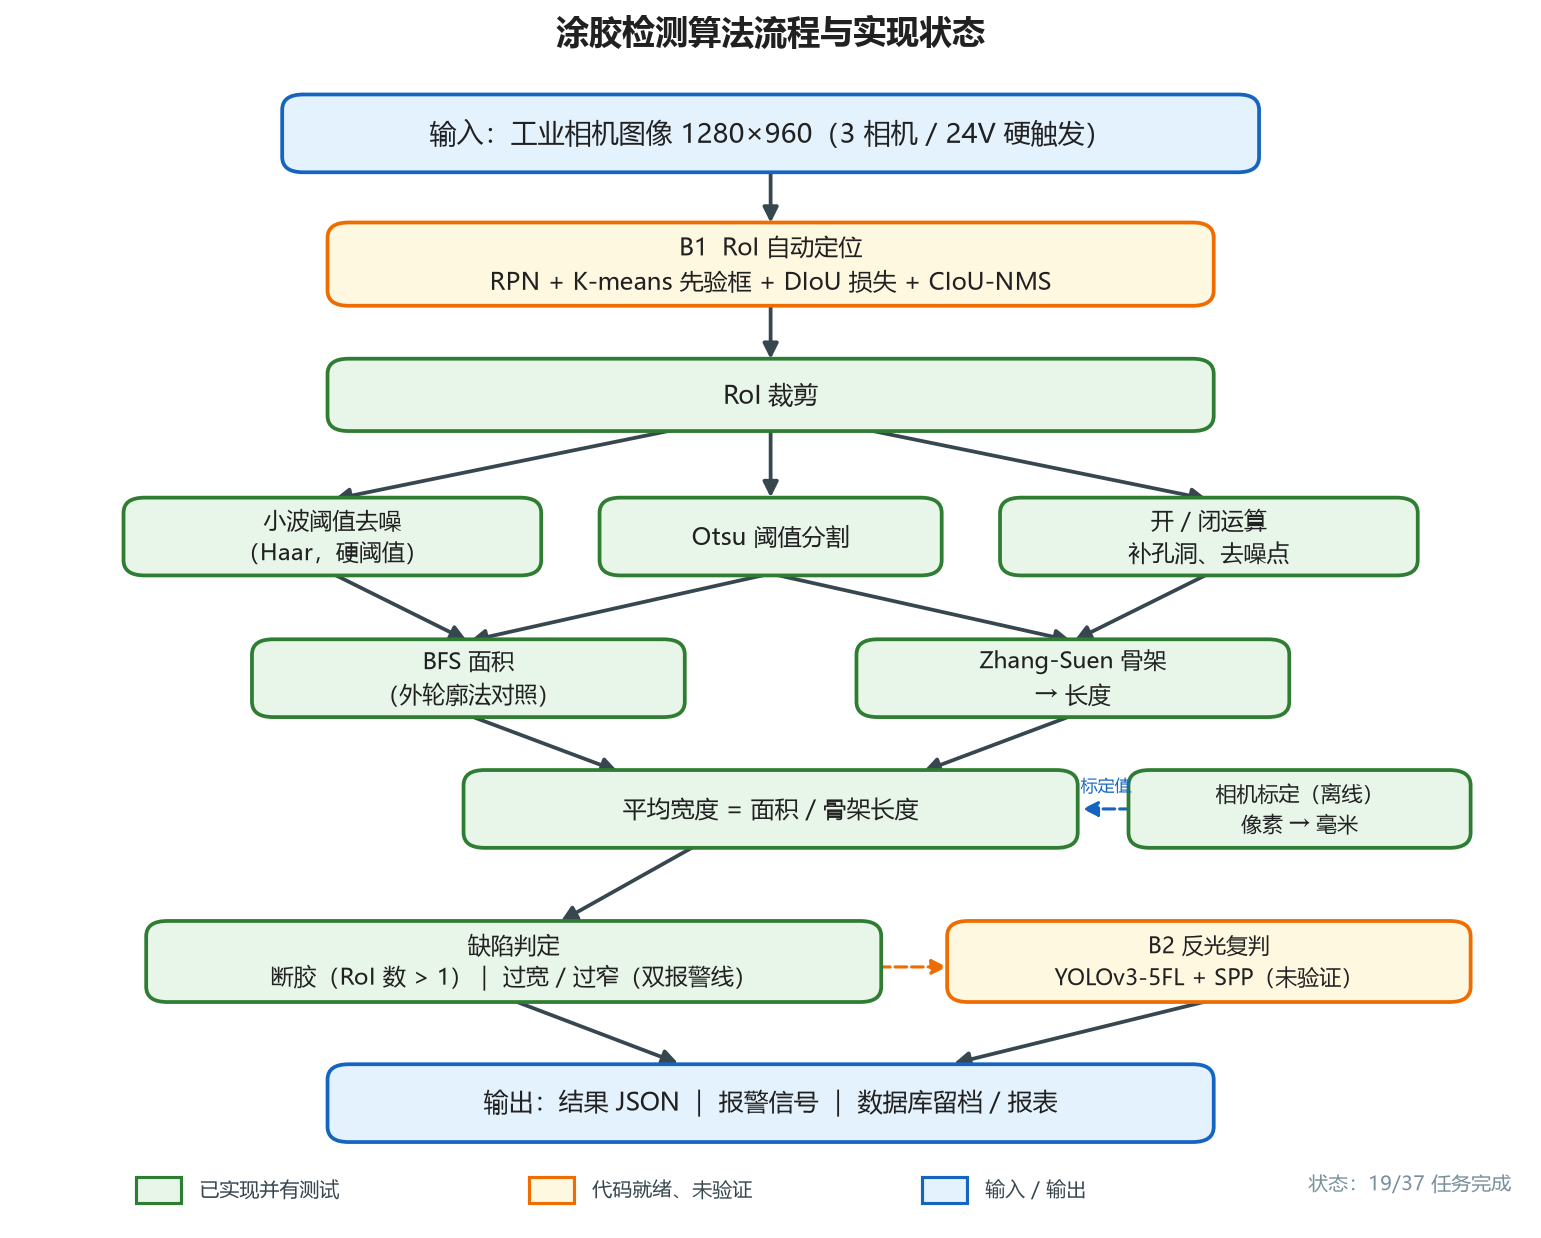
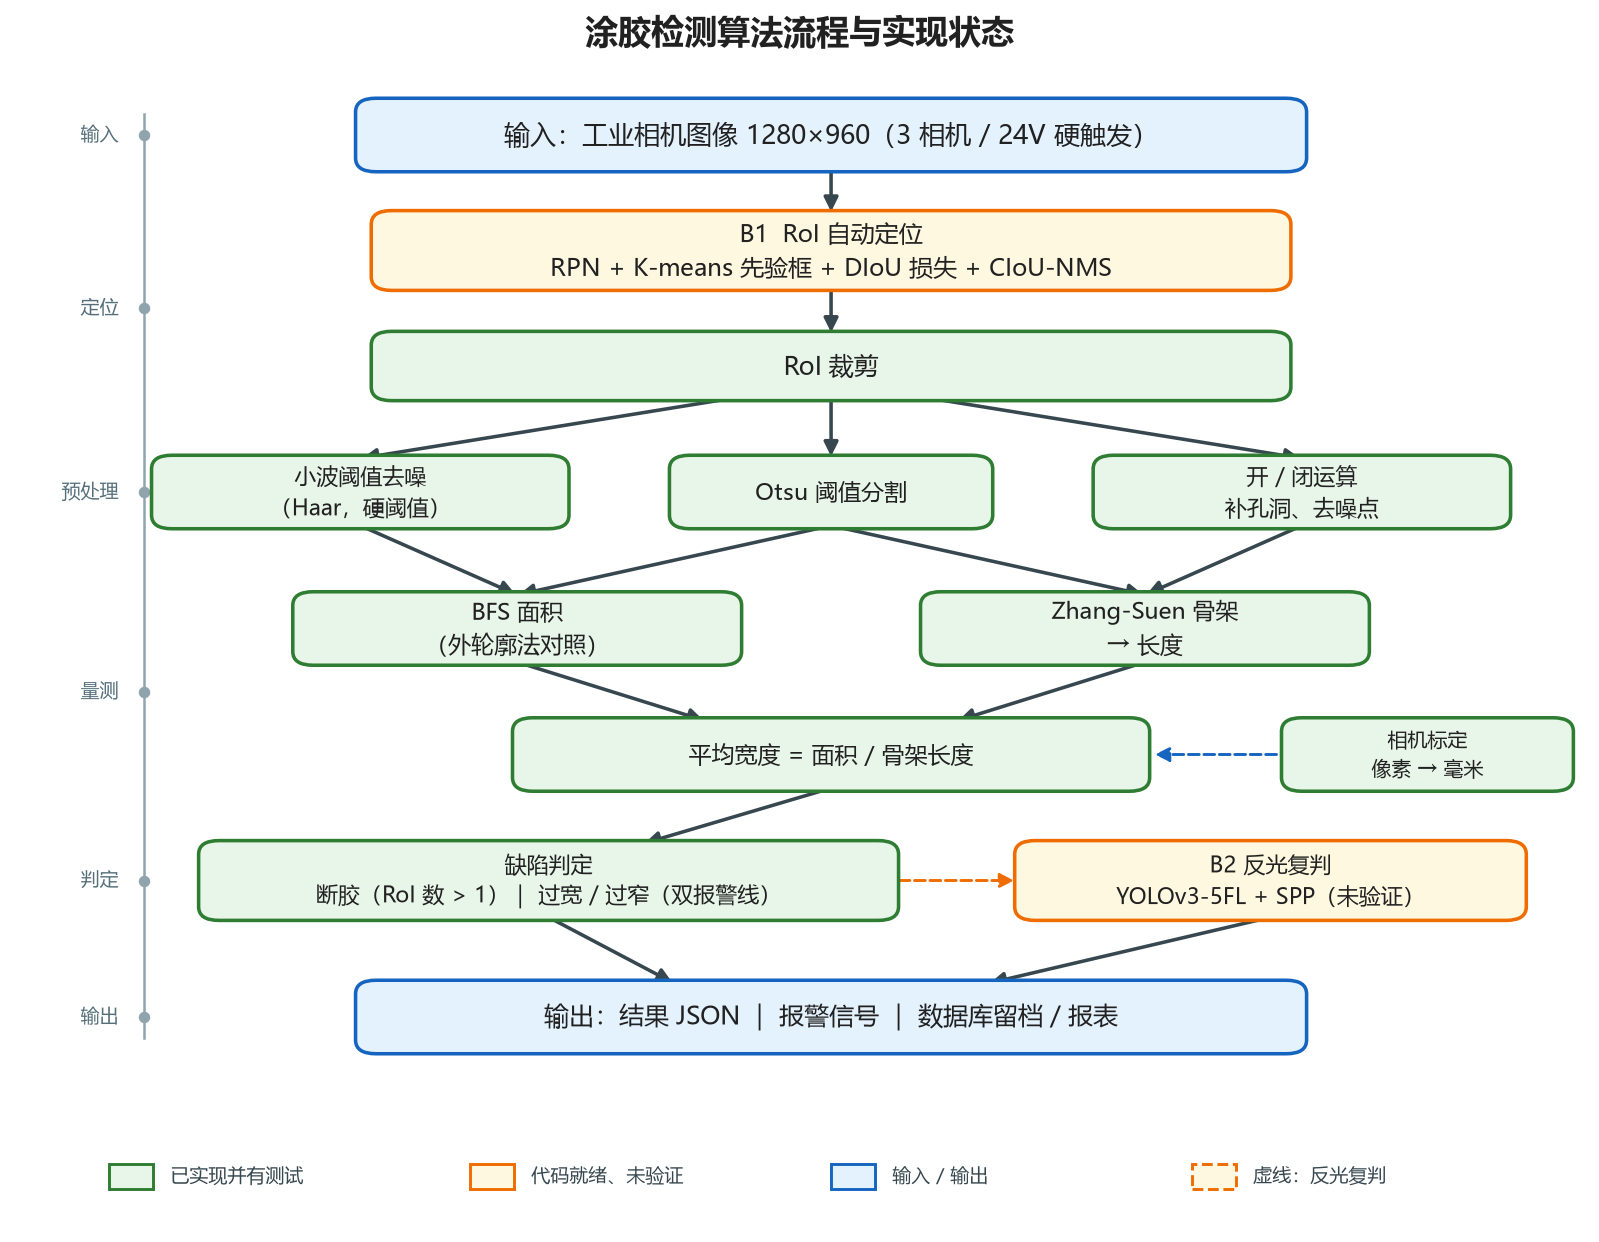
Refine progress page wording and redesign pipeline diagram
progress.md: remove colloquial summary phrasing, use declarative status statements and consistent 已完成/待验证/未开始 labels. make_flow_diagram.py: add stage rail, fix calibration arrow and legend overlap, add dashed-branch legend. AGENTS.md: replace colloquial link caption.

diff --git a/scripts/make_flow_diagram.py b/scripts/make_flow_diagram.py
@@ -1,9 +1,9 @@
 """生成算法流程框图（docs/algo/figures/algorithm-pipeline.png）。
 
-只做绘图，不含算法逻辑；颜色表示实现状态：
-    绿色 = 已实现并有测试
+只做绘图，不含算法逻辑。颜色编码实现状态：
+    绿色 = 已实现并有单元测试
     橙色 = 代码就绪、尚未验证
-    灰色 = 未实现
+    蓝色 = 输入 / 输出
 用法：
     py -3 scripts/make_flow_diagram.py
 """
@@ -22,101 +22,115 @@ plt.rcParams["axes.unicode_minus"] = False
 
 OUT = Path("docs/algo/figures/algorithm-pipeline.png")
 
-COLORS = {
-    "done": ("#e8f5e9", "#2e7d32"),      # 绿：已实现
-    "wip": ("#fff8e1", "#ef6c00"),       # 橙：就绪未验证
-    "todo": ("#f5f5f5", "#616161"),      # 灰：未实现
-    "io": ("#e3f2fd", "#1565c0"),        # 蓝：输入输出
-}
+DONE = ("#e8f5e9", "#2e7d32")   # 已实现
+WIP = ("#fff8e1", "#ef6c00")    # 就绪未验证
+IO = ("#e3f2fd", "#1565c0")     # 输入输出
+RAIL = "#90a4ae"
 
 
-def box(ax, x, y, w, h, text, kind="done", fontsize=12):
-    face, edge = COLORS[kind]
+def box(ax, x, y, w, h, text, kind=DONE, fontsize=12):
+    face, edge = kind
     ax.add_patch(FancyBboxPatch(
         (x - w / 2, y - h / 2), w, h,
-        boxstyle="round,pad=0.32,rounding_size=1.4",
-        linewidth=1.8, edgecolor=edge, facecolor=face, zorder=2,
+        boxstyle="round,pad=0.30,rounding_size=1.3",
+        linewidth=1.7, edgecolor=edge, facecolor=face, zorder=2,
     ))
     ax.text(x, y, text, ha="center", va="center", fontsize=fontsize,
             color="#212121", zorder=3, linespacing=1.35)
 
 
-def arrow(ax, x1, y1, x2, y2, ls="-", color="#37474f", lw=1.8):
+def arrow(ax, x1, y1, x2, y2, ls="-", color="#37474f", lw=1.7):
     ax.add_patch(FancyArrowPatch(
         (x1, y1), (x2, y2), arrowstyle="-|>", linestyle=ls,
-        mutation_scale=15, linewidth=lw, color=color, zorder=1,
+        mutation_scale=14, linewidth=lw, color=color, zorder=1,
         shrinkA=1, shrinkB=1,
     ))
 
 
+def stage_rail(ax, stages):
+    """左侧阶段标注轨：竖线 + 圆点 + 文字。"""
+    ys = [y for _, y in stages]
+    ax.plot([8.2, 8.2], [min(ys) - 2, max(ys) + 2], color=RAIL, lw=1.2, zorder=0)
+    for label, y in stages:
+        ax.plot([8.2], [y], marker="o", markersize=4.5, color=RAIL, zorder=1)
+        ax.text(6.6, y, label, ha="right", va="center", fontsize=9, color="#546e7a")
+
+
 def main() -> int:
-    fig, ax = plt.subplots(figsize=(13, 10), dpi=150)
+    fig, ax = plt.subplots(figsize=(13.5, 10), dpi=150)
     ax.set_xlim(0, 100)
-    ax.set_ylim(-6, 100)
+    ax.set_ylim(-9, 101)
     ax.axis("off")
 
+    # 阶段标注
+    stage_rail(ax, [
+        ("输入", 95),
+        ("定位", 78.5),
+        ("预处理", 61),
+        ("量测", 42),
+        ("判定", 24),
+        ("输出", 11),
+    ])
+
     # ① 输入
-    box(ax, 50, 94, 64, 6.5, "输入：工业相机图像 1280×960（3 相机 / 24V 硬触发）", "io", 13)
+    box(ax, 52, 95, 60, 6.4, "输入：工业相机图像 1280×960（3 相机 / 24V 硬触发）", IO, 12.5)
 
     # ② 定位
-    box(ax, 50, 82, 58, 7, "B1  RoI 自动定位\nRPN + K-means 先验框 + DIoU 损失 + CIoU-NMS", "wip", 11.5)
+    box(ax, 52, 84, 58, 7.0, "B1  RoI 自动定位\nRPN + K-means 先验框 + DIoU 损失 + CIoU-NMS", WIP, 11.3)
+    box(ax, 52, 73, 58, 6.0, "RoI 裁剪", DONE, 12)
 
-    # ③ 裁剪
-    box(ax, 50, 70, 58, 6, "RoI 裁剪", "done", 12)
+    # ③ 预处理
+    box(ax, 22, 61, 26, 6.4, "小波阈值去噪\n（Haar，硬阈值）", DONE, 10.6)
+    box(ax, 52, 61, 20, 6.4, "Otsu 阈值分割", DONE, 11.2)
+    box(ax, 82, 61, 26, 6.4, "开 / 闭运算\n补孔洞、去噪点", DONE, 10.6)
 
-    # ④ 预处理
-    box(ax, 21, 57, 27, 6.5, "小波阈值去噪\n（Haar，硬阈值）", "done", 10.8)
-    box(ax, 50, 57, 22, 6.5, "Otsu 阈值分割", "done", 11.5)
-    box(ax, 79, 57, 27, 6.5, "开 / 闭运算\n补孔洞、去噪点", "done", 10.8)
+    # ④ 量测
+    box(ax, 32, 48, 28, 6.4, "BFS 面积\n（外轮廓法对照）", DONE, 10.8)
+    box(ax, 72, 48, 28, 6.4, "Zhang-Suen 骨架\n→ 长度", DONE, 10.8)
+    box(ax, 52, 36, 40, 6.4, "平均宽度 = 面积 / 骨架长度", DONE, 11.2)
 
-    # ⑤ 量测
-    box(ax, 30, 44, 28, 6.5, "BFS 面积\n（外轮廓法对照）", "done", 11)
-    box(ax, 70, 44, 28, 6.5, "Zhang-Suen 骨架\n→ 长度", "done", 11)
-    box(ax, 50, 32, 40, 6.5, "平均宽度 = 面积 / 骨架长度", "done", 11.5)
+    # 标定（离线旁路）
+    box(ax, 90, 36, 18, 6.4, "相机标定\n像素 → 毫米", DONE, 9.6)
+    arrow(ax, 81.5, 36, 72.5, 36, ls="--", color="#1565c0", lw=1.4)
 
-    # ⑥ 标定（旁路输入，不是流程节点）
-    box(ax, 85, 32, 22, 6.5, "相机标定（离线）\n像素 → 毫米", "done", 10.2)
-    arrow(ax, 74, 32, 70.5, 32, ls="--", color="#1565c0", lw=1.5)
-    ax.text(72.2, 33.6, "标定值", ha="center", fontsize=8, color="#1565c0")
+    # ⑤ 判定
+    box(ax, 34, 24, 44, 7.0, "缺陷判定\n断胶（RoI 数 > 1）｜ 过宽 / 过窄（双报警线）", DONE, 10.6)
+    box(ax, 80, 24, 32, 7.0, "B2 反光复判\nYOLOv3-5FL + SPP（未验证）", WIP, 10.4)
 
-    # ⑦ 判定
-    box(ax, 33, 18, 48, 6.8, "缺陷判定\n断胶（RoI 数 > 1）｜ 过宽 / 过窄（双报警线）", "done", 10.8)
-    box(ax, 79, 18, 34, 6.8, "B2 反光复判\nYOLOv3-5FL + SPP（未验证）", "wip", 10.5)
-
-    # ⑧ 输出
-    box(ax, 50, 5, 58, 6.5, "输出：结果 JSON ｜ 报警信号 ｜ 数据库留档 / 报表", "io", 12)
+    # ⑥ 输出
+    box(ax, 52, 11, 60, 6.4, "输出：结果 JSON ｜ 报警信号 ｜ 数据库留档 / 报表", IO, 12)
 
     # ---------------- 箭头 ----------------
-    arrow(ax, 50, 90.6, 50, 85.6)       # 输入 → B1
-    arrow(ax, 50, 78.4, 50, 73.1)       # B1 → 裁剪
-    arrow(ax, 44, 66.9, 21, 60.4)       # 裁剪 → 去噪
-    arrow(ax, 50, 66.9, 50, 60.4)       # 裁剪 → Otsu
-    arrow(ax, 56, 66.9, 79, 60.4)       # 裁剪 → 形态学
-    arrow(ax, 21, 53.6, 30, 47.4)       # 去噪 → 面积
-    arrow(ax, 50, 53.6, 30, 47.4)       # Otsu → 面积
-    arrow(ax, 50, 53.6, 70, 47.4)       # Otsu → 骨架
-    arrow(ax, 79, 53.6, 70, 47.4)       # 形态学 → 骨架
-    arrow(ax, 30, 40.6, 40, 35.4)       # 面积 → 宽度
-    arrow(ax, 70, 40.6, 60, 35.4)       # 骨架 → 宽度
-    arrow(ax, 45, 28.6, 36, 21.6)       # 宽度 → 判定
-    arrow(ax, 57, 17.5, 61.8, 17.5, ls="--", color="#ef6c00", lw=1.5)  # 判定 → 反光复判
-    arrow(ax, 79, 14.4, 62, 8.6)        # 反光复判 → 输出
-    arrow(ax, 33, 14.4, 44, 8.6)        # 判定 → 输出
+    arrow(ax, 52, 91.8, 52, 87.5)        # 输入 → B1
+    arrow(ax, 52, 80.5, 52, 76.0)        # B1 → 裁剪
+    arrow(ax, 46, 70.0, 22, 64.2)        # 裁剪 → 去噪
+    arrow(ax, 52, 70.0, 52, 64.2)        # 裁剪 → Otsu
+    arrow(ax, 58, 70.0, 82, 64.2)        # 裁剪 → 形态学
+    arrow(ax, 22, 57.8, 32, 51.2)        # 去噪 → 面积
+    arrow(ax, 52, 57.8, 32, 51.2)        # Otsu → 面积
+    arrow(ax, 52, 57.8, 72, 51.2)        # Otsu → 骨架
+    arrow(ax, 82, 57.8, 72, 51.2)        # 形态学 → 骨架
+    arrow(ax, 32, 44.8, 44, 39.2)        # 面积 → 宽度
+    arrow(ax, 72, 44.8, 60, 39.2)        # 骨架 → 宽度
+    arrow(ax, 52, 32.8, 40, 27.5)        # 宽度 → 判定
+    arrow(ax, 56.2, 24, 63.8, 24, ls="--", color="#ef6c00", lw=1.4)  # 判定 → 反光复判
+    arrow(ax, 34, 20.5, 42, 14.2)        # 判定 → 输出
+    arrow(ax, 80, 20.5, 62, 14.2)        # 反光复判 → 输出
 
     # 图例
-    handles = [
-        ("已实现并有测试", COLORS["done"]),
-        ("代码就绪、未验证", COLORS["wip"]),
-        ("输入 / 输出", COLORS["io"]),
+    items = [
+        ("已实现并有测试", DONE, "-"),
+        ("代码就绪、未验证", WIP, "-"),
+        ("输入 / 输出", IO, "-"),
+        ("虚线：反光复判", WIP, "--"),
     ]
-    for i, (label, (face, edge)) in enumerate(handles):
-        x = 8 + i * 26
-        ax.add_patch(plt.Rectangle((x, -4.2), 3, 2.4, facecolor=face, edgecolor=edge, linewidth=1.5))
-        ax.text(x + 4.2, -3.0, label, fontsize=9.5, va="center", color="#37474f")
+    for i, (label, (face, edge), ls) in enumerate(items):
+        x = 6 + i * 23
+        ax.add_patch(plt.Rectangle((x, -5.4), 2.8, 2.4, facecolor=face,
+                                   edgecolor=edge, linewidth=1.4, linestyle=ls))
+        ax.text(x + 3.9, -4.2, label, fontsize=9, va="center", color="#37474f")
 
-    ax.text(99, -3.0, "状态：19/37 任务完成", ha="right", fontsize=9.5, color="#78909c")
-
-    ax.set_title("涂胶检测算法流程与实现状态", fontsize=16, weight="bold", pad=12, color="#212121")
+    ax.set_title("涂胶检测算法流程与实现状态", fontsize=16, weight="bold", pad=14, color="#212121")
 
     OUT.parent.mkdir(parents=True, exist_ok=True)
     fig.savefig(OUT, bbox_inches="tight", facecolor="white")

diff --git a/docs/algo/progress.md b/docs/algo/progress.md
@@ -1,8 +1,10 @@
 # 算法复现进度
 
 > 更新时间：2026-11-15
-> 当前分支：`feat/algorithm-reproduction`（领先 main 7 个提交，未推送）
-> 一句话：**能出毫米数的那条链路已经跑通并有测试；两路深度学习代码写完但没跑过；所有"论文指标"还等着真实数据。**
+> 当前分支：`feat/algorithm-reproduction`（领先 main 8 个提交，未推送）
+> 任务完成度：**19 / 37**
+
+当前状态：传统量测链路（P1）已实现并通过 60 项单元测试；两路深度学习模型（B1 RPN、B2 YOLOv3-5FL+SPP）的代码位于 `wip/b1-b2` 分支，尚未验证；论文指标的复现依赖现场图像与人工测量真值，目前尚未开始。
 
 ---
 
@@ -10,26 +12,22 @@
 
 ```
 P0 规范与口径    ██████████ 100%   指标定义、数据规范、接口契约、假设登记
-P1 量测链路      █████████░  90%   全部实现 + 60 项测试；缺真实数据验证
-P2 判定与集成    ████████░░  80%   判定/流水线/叠加图完成；缺延迟统计
-P3 RoI 定位 B1   ███░░░░░░░  30%   代码在 wip 分支，未运行
+P1 量测链路      █████████░  90%   实现与测试完成；真实数据验证未做
+P2 判定与集成    ████████░░  80%   判定、流水线、叠加图完成；延迟统计未做
+P3 RoI 定位 B1   ███░░░░░░░  30%   代码位于 wip 分支，尚未运行
 P4 反光检测 B2   ███░░░░░░░  30%   同上
 P5 对标与报告    ░░░░░░░░░░   0%   依赖 P3/P4 与真实数据
 ```
 
-任务清单：**19 / 37 项完成**（详见 [tasks.md](tasks.md)）。
-
 ---
 
-## 二、算法流程与状态
+## 二、算法流程与实现状态
 
 ![算法流程与实现状态](figures/algorithm-pipeline.png)
 
-- 🟩 绿色：已实现并有单元测试
-- 🟧 橙色：代码就绪、尚未验证（在 `wip/b1-b2` 分支）
-- 🟦 蓝色：输入 / 输出
+图中颜色表示实现状态：绿色为已实现并有单元测试；橙色为代码就绪但尚未验证（`wip/b1-b2` 分支）；蓝色为输入与输出。
 
-对应的 Mermaid 版本（GitHub 上可直接渲染）：
+Mermaid 版本（GitHub 可直接渲染）：
 
 ```mermaid
 flowchart TD
@@ -64,20 +62,20 @@ flowchart TD
 
 | 模块 | 论文位置 | 状态 | 说明 |
 | --- | --- | --- | --- |
-| 小波去噪 / 中值滤波 | 4.1 | ✅ | Haar 2 层 + 硬阈值，含中值对比 |
-| 阈值分割（Otsu / 双峰 / 全局） | 4.2.1 | ✅ | 三种方法都可切换 |
-| 开闭运算 | 4.2.2 | ✅ | 四种顺序组合 |
-| 相机标定 | 4.3 | ✅ | 棋盘格、内参、重投影误差、像素→毫米 |
-| 面积（BFS / 外轮廓） | 4.4.1 | ✅ | 两种方法可对照 |
-| 骨架与长度 | 4.4.2 | ✅ | Zhang-Suen；长度用图直径法（比边计数稳） |
-| 宽度换算 | 4.4.3 | ✅ | 面积÷长度，再乘标定系数 |
-| 缺陷判定 | 5.3.3 | ✅ | 断胶、双报警线、反光复判 |
-| 单帧流水线 | 5.2.3 | ✅ | 含降级记录与分段计时 |
-| 评测指标 | — | ✅ | IoU / 召回 / 误差 / p50-p95 |
-| **B1 RoI 定位（RPN）** | 3.1 | 🟧 | `wip/b1-b2` 分支，torch 未装，测试未跑 |
-| **B2 反光检测（YOLO-5FL+SPP）** | 3.3 | 🟧 | 同上 |
-| 消融实验（表 3-1/3-2/3-4） | 3.1/3.3 | ⬜ | 脚本骨架在，需模型跑通 + 数据 |
-| 真实数据指标（0.23mm 那条线） | 4.4/表 5-4 | ⬜ | 卡在采集与卡尺真值 |
+| 小波去噪 / 中值滤波 | 4.1 | 已完成 | Haar 2 层 + 硬阈值，含中值滤波对照 |
+| 阈值分割（Otsu / 双峰 / 全局） | 4.2.1 | 已完成 | 三种方法可切换 |
+| 开闭运算 | 4.2.2 | 已完成 | 四种顺序组合 |
+| 相机标定 | 4.3 | 已完成 | 棋盘格、内参、重投影误差、像素到毫米换算 |
+| 面积（BFS / 外轮廓） | 4.4.1 | 已完成 | 两种方法可对照 |
+| 骨架与长度 | 4.4.2 | 已完成 | Zhang-Suen 细化；长度采用图直径法 |
+| 宽度换算 | 4.4.3 | 已完成 | 面积除以长度，再乘标定系数 |
+| 缺陷判定 | 5.3.3 | 已完成 | 断胶、双报警线、反光复判 |
+| 单帧流水线 | 5.2.3 | 已完成 | 含降级记录与分段计时 |
+| 评测指标 | — | 已完成 | IoU、召回、误差、p50-p95 |
+| B1 RoI 定位（RPN） | 3.1 | 待验证 | `wip/b1-b2` 分支；torch 未安装，测试未运行 |
+| B2 反光检测（YOLO-5FL+SPP） | 3.3 | 待验证 | 同上 |
+| 消融实验（表 3-1/3-2/3-4） | 3.1 / 3.3 | 未开始 | 脚本骨架已就绪，需模型跑通与真实数据 |
+| 真实数据指标（0.23 mm 一项） | 4.4 / 表 5-4 | 未开始 | 依赖图像采集与卡尺真值 |
 
 ---
 
@@ -86,7 +84,7 @@ flowchart TD
 ```
 glue-inspection-sensor-reproduction/
 ├─ README.md                  项目总览
-├─ AGENTS.md                  AI/人协作规范（红线、DoD）
+├─ AGENTS.md                  AI / 人协作规范（红线、DoD）
 ├─ requirements.txt           核心依赖（torch 为可选项）
 ├─ algo/                      算法实现（13 个模块）
 │   ├─ types / config         数据结构与配置
@@ -96,7 +94,7 @@ glue-inspection-sensor-reproduction/
 │   ├─ calib                  标定与毫米换算
 │   ├─ decide                 断胶 / 宽窄 / 反光复判
 │   ├─ pipeline               单帧流水线
-│   ├─ models                 RoI 定位与反光检测的接口 + 占位实现
+│   ├─ models                 RoI 定位与反光检测的接口层
 │   ├─ metrics                评测指标
 │   ├─ synth                  五类合成样本
 │   └─ visualize              叠加图
@@ -114,17 +112,17 @@ glue-inspection-sensor-reproduction/
 │   ├─ reproduction-bom.md    硬件 BOM
 │   ├─ product-development-roadmap.md
 │   └─ hikrobot-usb-camera-comparison.md
-├─ scripts/                   6 个入口（demo/标定/评测/报告/流程图）
+├─ scripts/                   6 个入口（演示 / 标定 / 评测 / 报告 / 绘图）
 ├─ tests/                     6 个测试模块、60 项用例
 └─ references/                参考资料说明（PDF 不入库）
 ```
 
 ---
 
-## 五、现在能跑什么
+## 五、可执行命令
 
 ```powershell
-# 全部单元测试（不需要 torch、不需要数据）
+# 全部单元测试（不依赖 torch 与真实数据）
 py -3 -m unittest discover -s tests
 
 # 合成样本端到端演示（五类用例）
@@ -133,23 +131,23 @@ py -3 scripts/demo_synthetic.py --out outputs/demo
 # 棋盘格标定
 py -3 scripts/calibrate_board.py --images calib/ --cols 9 --rows 6 --square-mm 5 --out calib.json
 
-# 生成 P1 宽度报告（有真实数据后）
+# 生成 P1 宽度报告（需真实数据）
 py -3 scripts/run_measure_report.py --images data/raw/setA --labels data/labels/width.csv --calib calib.json
 
-# 重新生成本文的流程图
+# 重新生成本文流程图
 py -3 scripts/make_flow_diagram.py
 ```
 
-合成数据上的实测结果（只验证链路，不算指标）：正常 10.16mm→OK、过窄 5.90→TOO_NARROW、过宽 13.98→TOO_WIDE、断胶→BROKEN、反光+过窄→REFLECTION_SUSPECT。
+合成数据上的运行结果（仅验证链路，不作为指标）：正常 10.16 mm 判为 OK；过窄 5.90 mm 判为 TOO_NARROW；过宽 13.98 mm 判为 TOO_WIDE；断胶判为 BROKEN；反光叠加过窄判为 REFLECTION_SUSPECT。
 
 ---
 
-## 六、卡点与下一步
+## 六、阻塞项与下一步
 
-| 卡点 | 影响 | 解法 |
+| 阻塞项 | 影响 | 处理方式 |
 | --- | --- | --- |
-| **没有真实图像与卡尺真值** | 0.23mm 等指标全部「待测」 | 按 `data/README.md` 采集，先试标 20 张 |
-| **torch 环境未装成** | B1/B2 代码无法验证 | 装 CPU 版 torch，跑 `tests/test_net.py` |
-| **量测链路偏慢** | 合成图 p95 已 136ms，30fps 有距离 | BFS 换 OpenCV 连通域、骨架加速 |
+| 缺少真实图像与卡尺真值 | 0.23 mm 等指标无法填写 | 按 `data/README.md` 采集，先试标 20 张 |
+| torch 环境未安装成功 | B1/B2 代码无法验证 | 安装 CPU 版 torch，运行 `tests/test_net.py` |
+| 量测链路耗时偏高 | 合成图 p95 已达 136 ms，距 30 fps 有差距 | BFS 改用 OpenCV 连通域、骨架加速 |
 
-建议顺序：**先补数据闭环（P1 验收）→ 再恢复 B1/B2 → 最后做性能与对标报告**。
+推荐顺序：补齐数据闭环（完成 P1 验收）→ 恢复 B1/B2 → 性能优化与对标报告。

diff --git a/AGENTS.md b/AGENTS.md
@@ -10,7 +10,7 @@
 ## 0. 开工前必读（按顺序，约 5 分钟）
 
 1. [README.md](README.md) —— 仓库定位与当前进度
-2. [docs/algo/progress.md](docs/algo/progress.md) —— **当前完成度、流程图、卡在哪里**
+2. [docs/algo/progress.md](docs/algo/progress.md) —— **当前完成度、流程图与阻塞项**
 3. [docs/algo/plan.md](docs/algo/plan.md) —— 复现范围与分层架构
 4. [docs/algo/p0-spec.md](docs/algo/p0-spec.md) —— 指标口径（M1–M10）与假设登记（A1–A10）
 5. [docs/algo/interfaces.md](docs/algo/interfaces.md) —— 接口契约与配置键
